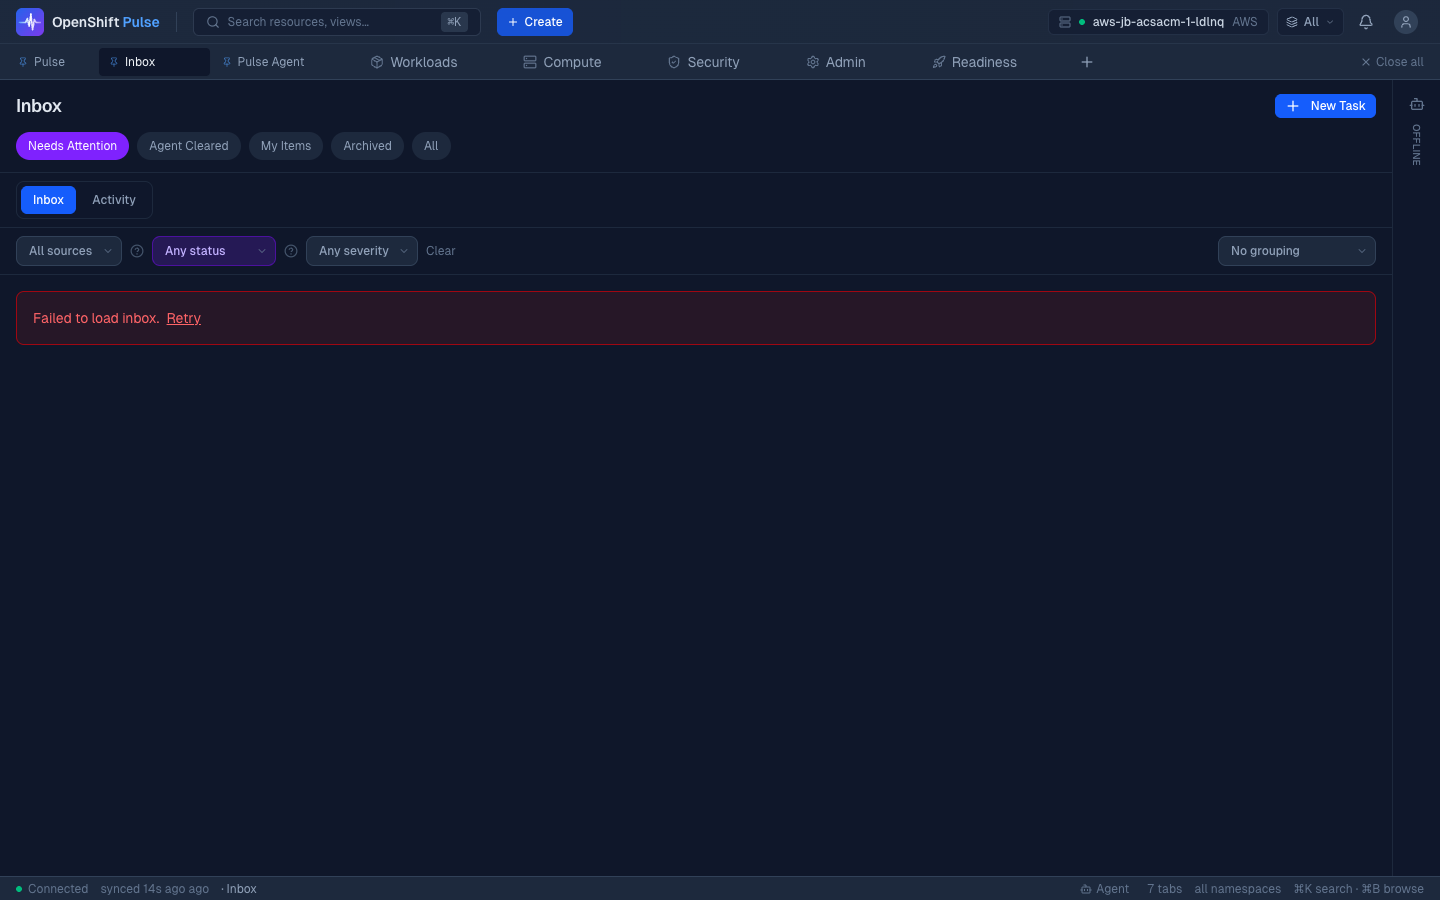
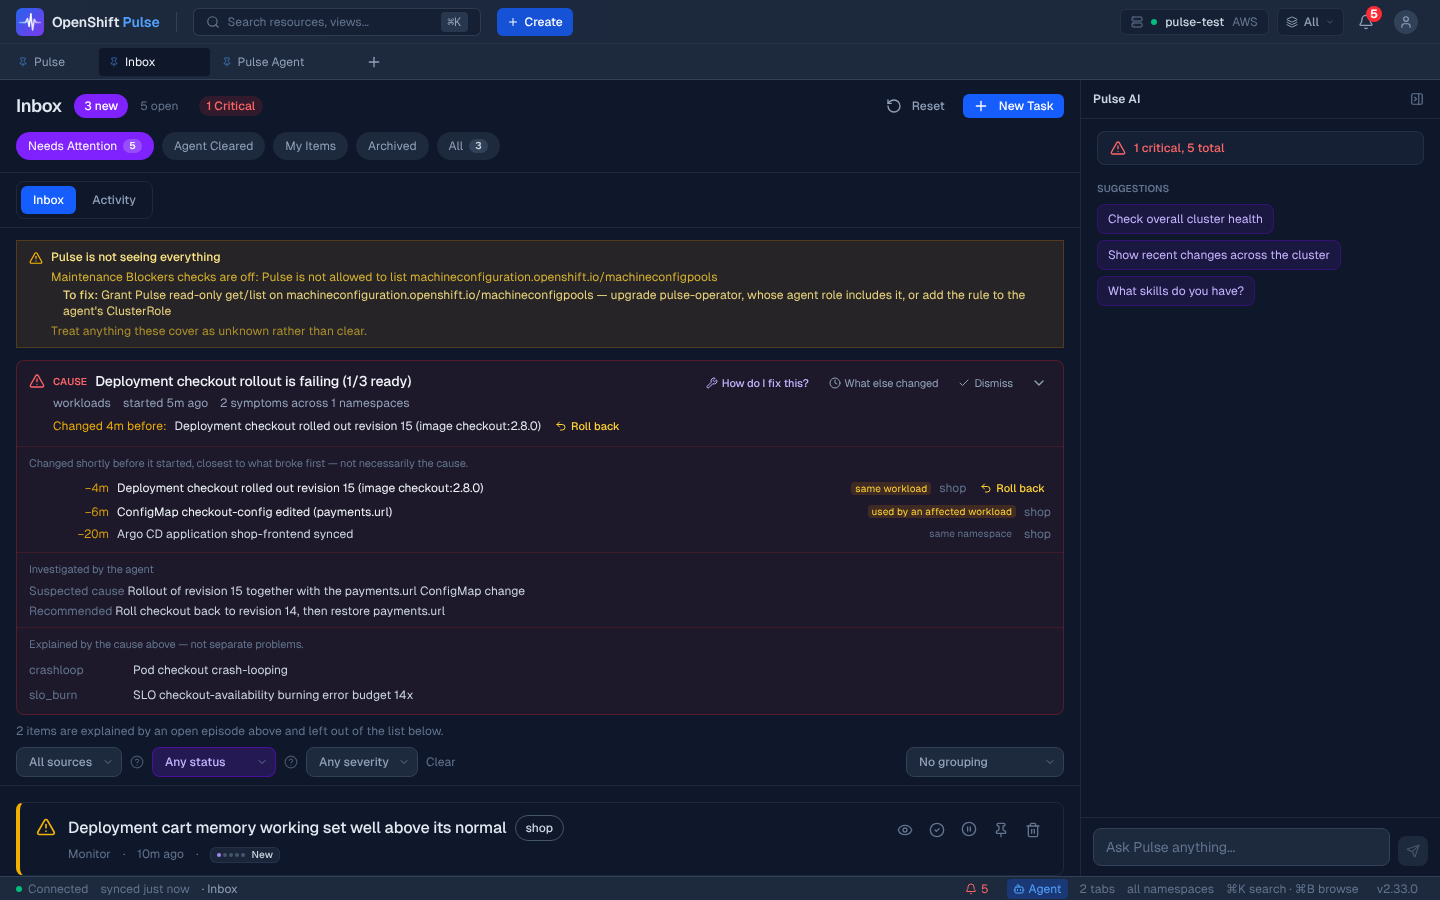
docs: v2.33.0 screenshots, README and Pages refresh
Adds a repeatable capture script (e2e/screenshots) that runs against the mock
K8s API with sample agent data, and fixes the broken og:image.

Claude-Session: https://claude.ai/code/session_01QDeF1in7EiYMDYx7wHb3cQ

diff --git a/docs/index.html b/docs/index.html
@@ -7,7 +7,7 @@
   <meta name="description" content="OpenShift Pulse UI: incident evidence, action approval, verified recovery and installation diagnostics.">
   <meta property="og:title" content="OpenShift Pulse">
   <meta property="og:description" content="OpenShift Pulse UI: incident evidence, action approval, verified recovery and installation diagnostics.">
-  <meta property="og:image" content="https://PulseSRE.github.io/pulse-ui/screenshots/hero.png">
+  <meta property="og:image" content="https://pulsesre.github.io/pulse-ui/screenshots/inbox.png">
   <link rel="icon" href="logo.svg" type="image/svg+xml">
   <link href="https://fonts.googleapis.com/css2?family=JetBrains+Mono:wght@400;700&family=Inter:wght@400;600;800;900&display=swap" rel="stylesheet">
   <style>
@@ -340,7 +340,7 @@
 <main>
 <section class="hero" aria-labelledby="title">
 <h1 id="title">OpenShift Pulse</h1>
-<div class="version">CURRENT IMPLEMENTATION // MATCHED AGENT/UI RELEASES</div>
+<div class="version">v2.33.0 // MATCHED AGENT/UI RELEASES</div>
 <p class="tagline">An operations console for inspecting incidents, reviewing actions and following recovery evidence.</p>
 <div class="hero-buttons"><a class="btn btn-primary" href="https://github.com/PulseSRE/pulse-ui">Source and setup</a><a class="btn btn-secondary" href="https://github.com/PulseSRE/pulse-ui/releases/latest">Published releases</a></div>
 </section>
@@ -348,6 +348,12 @@
 <article class="feature-card"><h3>Review proposed repairs</h3><p>The inbox and agent confirmation surfaces let users review actions. Approval does not override backend permissions or namespace/node policy.</p></article>
 <article class="feature-card"><h3>Follow actual outcomes</h3><p>Lifecycle views separate proposed, executed and verified actions, show verification evidence and handle recurrence. A model-written resolution checklist is not proof of recovery.</p></article>
 <article class="feature-card"><h3>Keep cluster targets explicit</h3><p>Resource reads and supported operations retain their selected cluster target across switches. Local agent context is distinguished from remote fleet resource context.</p></article></div></section>
+<section class="section" aria-labelledby="new"><h2 id="new">New in v2.33.0</h2><p class="subtitle">Pairs with Pulse Agent v2.33.0 and pulse-operator v0.10.0. Screenshots use sample data. <a href="https://github.com/PulseSRE/pulse-ui/releases/tag/v2.33.0">Release notes</a></p>
+<div class="screenshot"><img src="screenshots/inbox.png" alt="Inbox with a capability banner, an open episode and the queue" loading="lazy"><div class="screenshot-label">Inbox <span>— what Pulse cannot see, then the cause, then the queue</span></div></div>
+<div class="screenshots" style="margin-top:16px;align-items:start"><div style="display:flex;flex-direction:column;gap:16px"><article class="feature-card"><h3>"To fix:" on blind scanners</h3><p>When a scanner cannot see, the banner says which checks are off and the one change that turns them back on, instead of an empty list that reads as healthy.</p></article>
+<article class="feature-card"><h3>Episodes lead with the change</h3><p>The rollout, ConfigMap edit or sync closest to what broke is shown first, labelled by how it relates. Roll back asks Pulse, which goes through the normal confirmation.</p></article>
+<article class="feature-card"><h3>One row per condition</h3><p>Findings are updated in place by id, so a moving restart count no longer adds a new row each scan.</p></article></div>
+<div class="screenshot"><img src="screenshots/scanners.png" alt="Scanner coverage drawer listing the new scanners" loading="lazy"><div class="screenshot-label">Scanner coverage <span>— 32 scanners, including anomaly, storage and routes</span></div></div></div></section>
 <section class="section" aria-labelledby="evidence"><h2 id="evidence">Readiness and recovery evidence</h2><p class="subtitle">Use a matched agent/UI release. Installation diagnostics come from the agent and can remain unknown; cluster permissions, actual provider behavior and sustained repair need separate tests. Isolated UI acceptance uses controlled responses and certifies no live cluster.</p><p>Crashloop, failed rollout and pending-pod acceptance must preserve diagnostic observations, the exact approved target/change, execution results and fresh recovery measurements. Rejected or unverifiable operations stay unresolved.</p></section>
 <section class="section" aria-labelledby="guides"><h2 id="guides">Operational guides</h2><p class="subtitle">These links open current repository documentation. Historical plans and designs describe proposals, not current operational guarantees.</p><p><a href="https://github.com/PulseSRE/pulse-ui/blob/main/README.md">Setup and development</a></p>
 <p><a href="https://github.com/PulseSRE/pulse-ui/blob/main/API_CONTRACT.md">API contract</a></p>

diff --git a/README.md b/README.md
@@ -2,6 +2,10 @@
 
 A React and TypeScript dashboard for OpenShift operations: resource browsing and editing, cluster health, logs and terminals, monitoring, and integration with the [Pulse Agent](https://github.com/PulseSRE/pulse-agent).
 
+![Inbox: a capability banner with its fix, an episode led by the rollout before it, and the queue](docs/screenshots/inbox.png)
+
+<sub>Sample data. New in v2.33.0: the banner says which checks are off and how to turn them back on; episodes lead with the change closest to what broke and offer a rollback through Pulse's normal confirmation.</sub>
+
 ## Install
 
 Use the [Pulse Operator installation guide](https://github.com/PulseSRE/pulse-operator#install-via-olm) to deploy the UI, agent, PostgreSQL, OAuth proxy, and supporting resources from an `OpenShiftPulse` custom resource. This repository builds the UI container consumed by `spec.ui.image`; it does not contain a Helm chart for installing Pulse.
@@ -110,7 +114,7 @@ podman push "$PULSE_UI_IMAGE"
 
 ## Screenshots and project links
 
-Screenshots in [docs/screenshots](docs/screenshots) capture earlier UI revisions and may differ from the current routes and data. [docs/index.html](docs/index.html) is the project landing page.
+`inbox.png` and `scanners.png` in [docs/screenshots](docs/screenshots) show v2.33.0 with sample data; regenerate them with `node e2e/screenshots/capture.mjs` (see the header of that file). The other screenshots there capture earlier UI revisions from a live cluster and may differ from the current routes and data. [docs/index.html](docs/index.html) is the project landing page.
 
 - [Contributing](CONTRIBUTING.md)
 - [Security](SECURITY.md)
